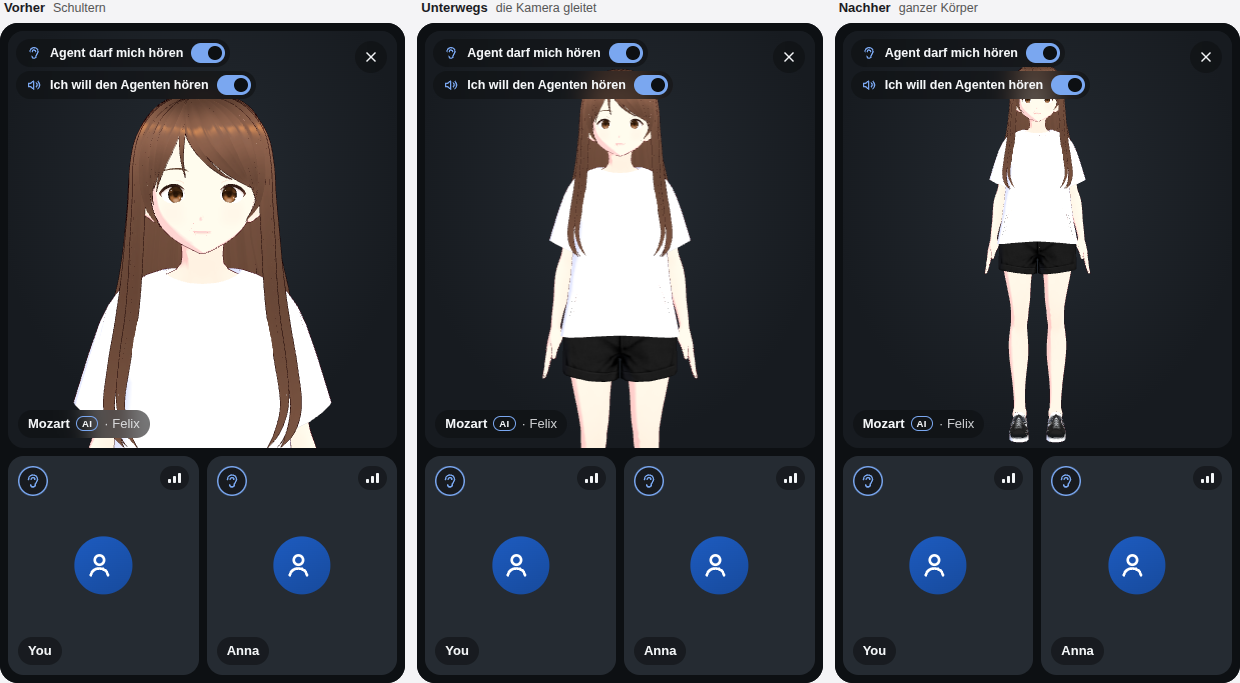
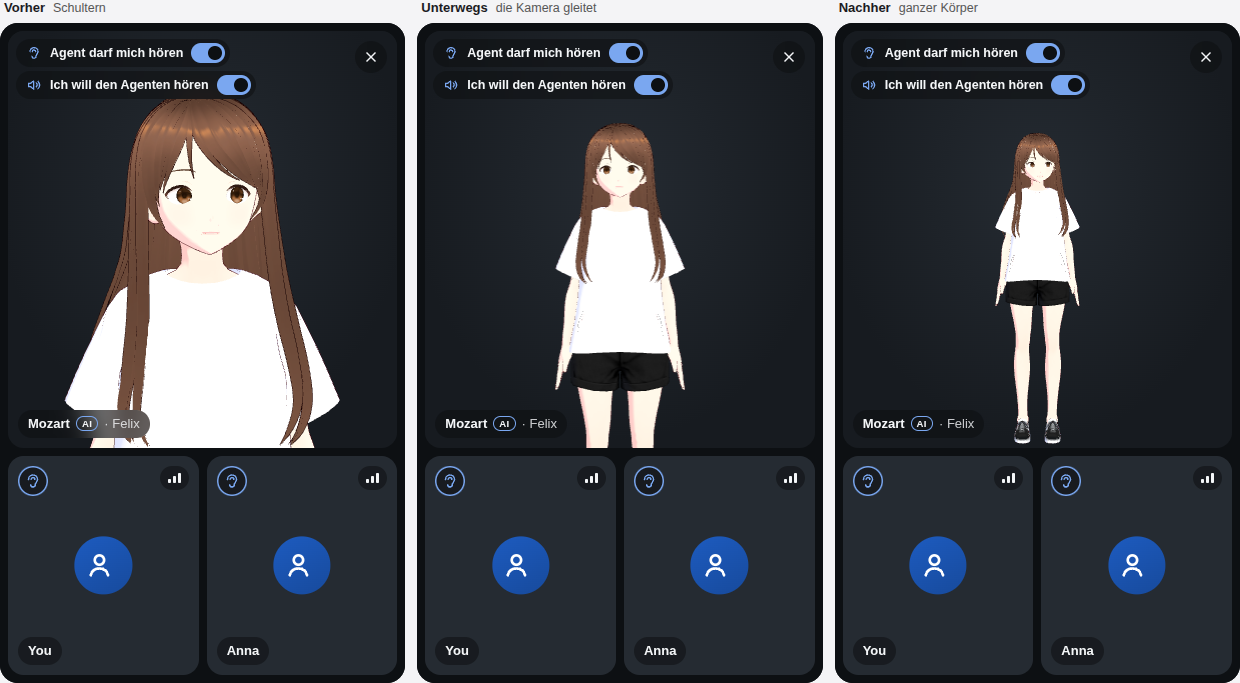
Keep the face clear of the hearing pills at upper and full body and recapture the framing pictures
The two hearing pills covered the figure's face at full body. The upper and
full framings now place the head below the pills' row; upper body frames head
to hips and fills the tile's height, so the four framings step clearly. All
framing and change pictures are recaptured as tile crops without the page
caption strip.

Work-Item: #1041

diff --git a/docs/mockups/agent-tile-figure/agent-tile-figure.html b/docs/mockups/agent-tile-figure/agent-tile-figure.html
@@ -1313,11 +1313,12 @@ var eh = { aa: [800, 1200, 2600], ih: [300, 2300, 3e3], ou: [330, 800, 2500], ee
   Hp = { ua: [-0.6, 0.5, 0.6], la: [0, 2.4, 0], h: [0, 0, 0] },
   Tt = { characters: new Set(), started: !1, cpu: 0, fps: 0, last: 0, burnMs: 0 },
   // Rahmung: Meter über und unter den Augen sowie halbe Breite, die die Kamera zeigen muss. "shoulders" ist das gesegnete Bild.
+  // Bei "upper" und "full" liegt der Kopf unter der Zeile der beiden Hör-Pillen, damit sie das Gesicht nicht verdecken.
   FR = {
     face: { r: 0.15, o: 0.15, a: 0.14 },
     shoulders: { r: 0.25, o: 0.4, a: 0.31 },
-    upper: { r: 0.3, o: 0.8, a: 0.45 },
-    full: { r: 0.3, o: 9, a: 0.6 },
+    upper: { r: 0.43, o: 0.75, a: 0.45 },
+    full: { r: 0.7, o: 9, a: 0.6 },
   },
   ih = class {
     constructor(e, t = {}) {
